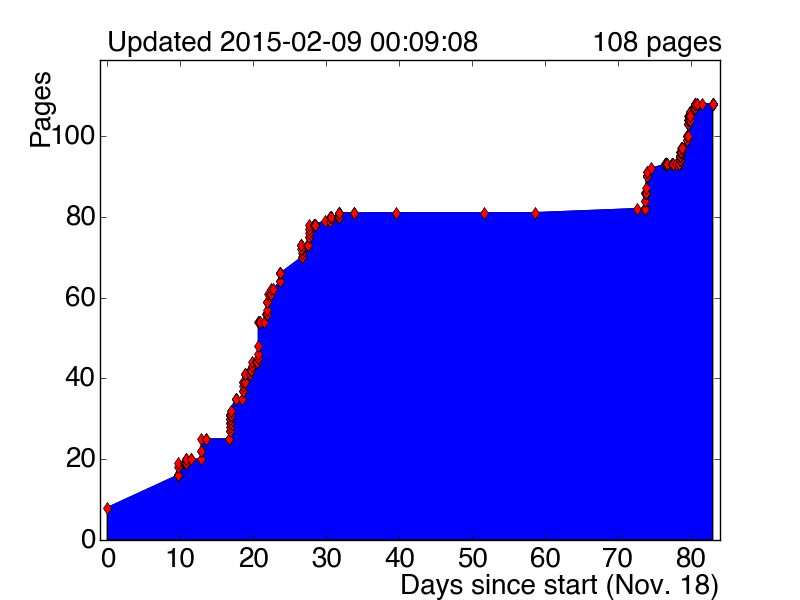
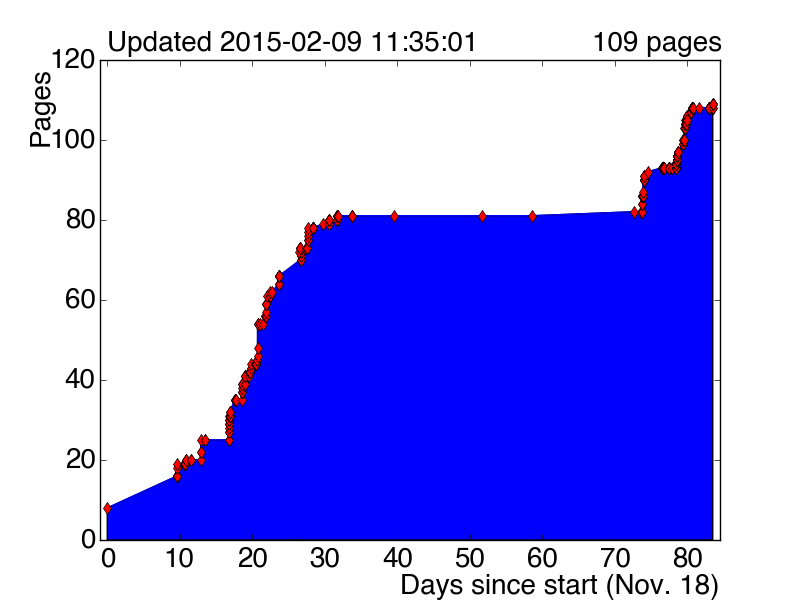
more ltt

diff --git a/tex/prospects.tex b/tex/prospects.tex
@@ -19,7 +19,7 @@ In Run-II, the LHC is expected to collide protons with $\sqrt{s} = 13$ TeV, a pe
 
 The ATLAS L1 trigger rate would increase approximately five-fold if the 2012 trigger menu was ported unchanged to 2015 data-taking conditions~\cite{ATL-COM-DAQ-2014-054}. However, the L1 bandwidth is expected to increase from 75 kHz to 100 kHz, much less than this rate increase. The L1 menu must then be adapted to accommodate this.
 
-This is especially true of triggers which rely on $\tauh$ since hadronic objects are challenging in the trigger, both in identification and calibration. An unsustainable increase of trigger rate as a function of instantaneous luminosity is shown in \cref{fig:prospects-tautriggerrates}. Multiple avenues were explored to ensure tenable trigger rates without significant loss of physics.
+This is especially true of triggers which rely on $\tauh$ since hadronic objects are challenging in the trigger, both in identification and calibration. An unsustainable increase of trigger rate as a function of instantaneous luminosity is shown in \cref{fig:prospects-tautriggerrates}. Multiple avenues are explored to ensure tenable trigger rates without significant loss of physics.
 
 \begin{figure}[tp]
   \centering
@@ -31,7 +31,7 @@ This is especially true of triggers which rely on $\tauh$ since hadronic objects
 
 \subsection{Run-I triggers for $\Htautau$}
 
-In Run-I, only the $\Htautauhh$ analysis relied on $\tauh$ triggers for physics. The $\Htautaulh$ used single lepton triggers with an offline threshold of 26 GeV. $\ell+\tauh$ triggers were considered but ultimately dropped because they brought additional complication to the analysis without significant improvement in sensitivity. The $\Htautaull$ analysis relied on single and di-lepton triggers. The list of triggers used in 2012 data-taking, and their expected 2015 versions, is shown in \cref{tab:prospects-triggersL1} and \cref{tab:prospects-triggersHLT}.
+In Run-I, only the $\Htautauhh$ analysis rely on $\tauh$ triggers for physics. The $\Htautaulh$ use single lepton triggers with an offline threshold of 26 GeV. $\LTT$ triggers are considered but ultimately dropped because they bring additional complication to the analysis without significant improvement in sensitivity. The $\Htautaull$ analysis relies on single and di-lepton triggers. The list of triggers used in 2012 data-taking, and their expected 2015 versions, is shown in \cref{tab:prospects-triggersL1} and \cref{tab:prospects-triggersHLT}.
 
 \begin{table}[bp] 
   \centering
@@ -50,11 +50,11 @@ In Run-I, only the $\Htautauhh$ analysis relied on $\tauh$ triggers for physics.
 \clearpage
 \subsection{Run-II triggers}
 
-Trigger options for Run-II are most critical for the $\Htautauhh$ since it relies entirely on $\tauh$ triggers. The $\Htautaull$ analysis will continue to use single and di-lepton triggers, which enjoy low thresholds and are among the most high profile triggers, and thus less likely to be cut in case of unexpectedly high rates. The $\Htautaulh$ analysis will continue to use the single lepton trigger, but the potential benefit of recovering events with leptons below the single lepton trigger thresholds could be helpful. Accordingly, only the $\Htautauhh$ and $\Htautaulh$ analyses were considered for trigger optimizations, with emphasis on $\Htautauhh$.
+Trigger options for Run-II are most critical for the $\Htautauhh$ since it relies entirely on $\tauh$ triggers. The $\Htautaull$ analysis will continue to use single and di-lepton triggers, which enjoy low thresholds and are among the most high profile triggers, and thus less likely to be cut in case of unexpectedly high rates. The $\Htautaulh$ analysis will continue to use the single lepton trigger, but the potential benefit of recovering events with leptons below the single lepton trigger thresholds could be helpful. Accordingly, only the $\Htautauhh$ and $\Htautaulh$ analyses are considered for trigger optimizations, with emphasis on $\Htautauhh$.
 
 \subsubsection{Object thresholds}
 
-The first option was to raise object thresholds in the trigger. Given the success of the Run-I analysis, which only included event topologies with additional jets, triggering on one or two additional jets in the event was considered. To assess the impact of this, the Run-I analysis was re-run but with progressively higher thresholds on the final state objects, and the resulting sensitivity was derived. This is shown in \cref{fig:prospects-trigger-evolution}.
+The first and simplest option is to raise object thresholds in the trigger. Since the Run-I analysis signal regions only include event topologies with additional jets, triggering on one or two additional jets in the event is considered. To assess the impact of this, the Run-I analysis was re-run but with progressively higher thresholds on the final state objects, and the resulting sensitivity is derived. This is shown in \cref{fig:prospects-trigger-evolution}.
 
 \begin{figure}[!htpb]
   \centering
@@ -64,13 +64,13 @@ The first option was to raise object thresholds in the trigger. Given the succes
   \label{fig:prospects-trigger-evolution}
 \end{figure}
 
-For both $\Htautauhh$ and $\Htautaulh$, triggering on the lead jet in the VBF category was promising, and triggering on the sub-lead jet was not. This configuration would also spare the boosted category from requiring a second jet, which would be inefficient. An offline threshold of $\approx\! 70$ GeV for the lead jet, which corresponds to a L1 threshold of $\approx\! 25$ GeV, did not cost significant sensitivity.
+For both $\Htautauhh$ and $\Htautaulh$, triggering on the lead jet in the VBF category is promising, and triggering on the sub-lead jet is not. The lowest realistic threshold for triggering on the sub-lead jet is $15-20$ GeV at L1 ($\approx\! 50-60$ GeV offline) costs significant sensitivity in both final states. Requiring a second jet would also be inefficient for the boosted category. To trigger on the lead jet, however, an offline threshold of $\approx\! 70$ GeV ($25$ GeV at L1) does not cost significant sensitivity.
 
-For $\Htautauhh$, raising the threshold on the lead $\tauh$ was more promising then raising the threshold on the sub-lead $\tauh$. For $\Htautaulh$, raising the threshold on the $\tauh$ was more promising than raising the threshold on the lepton.
+For $\Htautauhh$, raising the threshold on the lead $\tauh$ is more promising then raising the threshold on the sub-lead $\tauh$. For $\Htautaulh$, raising the threshold on the $\tauh$ is more promising than raising the threshold on the lepton.
 
 \subsubsection{L1topo}
 
-A new feature of the L1 trigger in 2015 is the ability to make topological selections, whereas in Run-I, only object multiplicity selections could be made. This topological selection are implemented via the new \texttt{L1topo} processor.
+A new feature of the L1 trigger in 2015 is the ability to make topological selections, whereas in Run-I, only object multiplicity selections could be made. This topological selection are implemented via the new \texttt{L1topo} processor~\cite{ATL-DAQ-PROC-2013-039,ATL-COM-DAQ-2014-005}.
 
 At L1, the dominant background for $\tauh$ triggers is QCD di-jet production. Topological selections can be used in various ways to suppress this process, especially in the $\Htautau$ analysis signal regions where the $\tau\tau$ system tends to be boosted.
 %
@@ -87,7 +87,7 @@ At L1, the dominant background for $\tauh$ triggers is QCD di-jet production. To
       QCD di-jet systems tend to be non-resonant and low-$\pt$, and the $\tau\tau$ system is from $Z/H$ decays.
 \end{description}
 %
-The discriminating power of these variables is shown in \cref{fig:prospects-trigger-l1topo}.
+The discriminating power of these variables is shown in \cref{fig:prospects-trigger-l1topo} for $\Htautaueh$ MC versus high-pileup minimum bias MC. 
 
 \begin{figure}[!htpb]
   \centering
@@ -100,11 +100,8 @@ The discriminating power of these variables is shown in \cref{fig:prospects-trig
   \label{fig:prospects-trigger-l1topo}
 \end{figure}
 
-Of these options, angular discrimination is appealing because the angular resolution for $\tauh$ at L1 is better than momentum resolution, as shown in \cref{fig:prospects-trigger-2011-angular} and \cref{fig:prospects-trigger-resolution}. Sharper efficiency turn-ons can then be expected at HLT and offline. $\Delta R(\tautau) < 2.8$ was ultimately chosen for discrimination because it combines the discriminating power of $\Delta\phi(\tautau)$ and $\Delta\eta(\tautau)$.
+Of these options, angular discrimination is appealing because the angular resolution for $\tauh$ at L1 is better than momentum resolution, as shown in \cref{fig:prospects-trigger-2011-angular} and \cref{fig:prospects-trigger-resolution}. Sharper efficiency turn-ons can then be expected at HLT and offline. $\Delta R(\tautau) < 2.8$ is ultimately chosen for discrimination because it combines the discriminating power of $\Delta\phi(\tautau)$ and $\Delta\eta(\tautau)$.
 
-The impact of requiring an additional jet and $\Delta R(\tautau) < 2.8$ on the predicted 2015 L1 trigger rate is shown in \cref{tab:prospects-L1rate-evolution}. A ten-fold reduction of the rate is achieved without signicant loss of sensitivity.
-
-\clearpage
 \begin{figure}[!htpb]
   \centering
   \includegraphics[width=0.48\textwidth]{figures/ATL-COM-DAQ-2012-001/c_L1_etares}
@@ -121,19 +118,29 @@ The impact of requiring an additional jet and $\Delta R(\tautau) < 2.8$ on the p
   \label{fig:prospects-trigger-resolution}
 \end{figure}
 
+\clearpage
+
+The impact of requiring an additional jet and $\Delta R(\tautau) < 2.8$ on the predicted 2015 L1 trigger rate is shown in \cref{tab:prospects-L1rate-evolution}. A ten-fold reduction of the rate is achieved without signicant loss of sensitivity.
+
 \begin{table}[!htpb] 
   \centering
   \input{tables/prospects-L1rate-evolution}
   \caption{L1 trigger items and rate predictions for 2015 data-taking. A baseline L1 menu is used for calculating the unique rate.}
   \label{tab:prospects-L1rate-evolution}
 \end{table}
-\clearpage
 
-\subsubsection{Sensitivity gain in $\Htautaulh$ with $\ell+\tau_h$ triggers}
+\subsubsection{Sensitivity gain in $\Htautaulh$ with $\LTT$ triggers}
 
-To assess the potential gain in sensitivity of $\ell+\tau_h$ triggers in 2015, the $\Htautaulh$ analysis was re-run in the regime below the single lepton trigger threshold. Kinematic distributions are shown in \cref{fig:prospects-ltt-taus} and \cref{fig:prospects-ltt-jets}, including the final BDT discriminant.
+To assess the potential gain in sensitivity of $\LTT$ triggers in 2015, the $\Htautaulh$ analysis is re-run in the regime below the single lepton trigger threshold with the $\LTT$ triggers running in 2012, shown in \cref{tab:prospects-LTT-2012}. Kinematic distributions are shown in \cref{fig:prospects-ltt-taus} and \cref{fig:prospects-ltt-jets}, including the final BDT discriminant.
 
-A simple, analytic formula for the discovery significance ($Z_A$~\cite{2012.cowan.significance}) gives $0.7\sigma$ for the $\ell\!+\!\tauh$ triggered category. This is not a significant improvment over the single lepton triggered regime.
+\begin{table}[!htpb] 
+  \centering
+  \input{tables/prospects-LTT-2012}
+  \caption{L1 and HLT $\LTT$ trigger items operating in 2012.}
+  \label{tab:prospects-LTT-2012}
+\end{table}
+
+A simple, analytic formula for the discovery significance ($Z_A$~\cite{2012.cowan.significance}) gives $0.7\sigma$ for the $\LTT$ triggered category. This is not a significant improvment over the single lepton triggered regime.
 
 \clearpage
 \begin{figure}[tp]

diff --git a/tex/apx-control-regions.tex b/tex/apx-control-regions.tex
@@ -5,7 +5,7 @@
 Comparisons of data with prediction for fakes control regions in the $\Htautau$ analysis are shown.
 \end{quote}
 
-\section{$\Wlvj$ CR}
+\section{$\Wlv$ CR}
 
 \begin{figure}[!htpb]
   \centering
@@ -52,7 +52,7 @@ Comparisons of data with prediction for fakes control regions in the $\Htautau$ 
 
 \clearpage
 
-\section{$\QCDj$ CR}
+\section{QCD CR}
 
 \begin{figure}[!htpb]
   \centering
@@ -99,7 +99,7 @@ Comparisons of data with prediction for fakes control regions in the $\Htautau$ 
 
 \clearpage
 
-\section{$\Zllj$ CR}
+\section{$\Zll$ CR}
 
 \begin{figure}[!htpb]
   \centering
@@ -146,7 +146,7 @@ Comparisons of data with prediction for fakes control regions in the $\Htautau$ 
 
 \clearpage
 
-\section{$\topj$ CR}
+\section{top CR}
 
 \begin{figure}[!htpb]
   \centering

diff --git a/tables/prospects-LTT-2012.tex b/tables/prospects-LTT-2012.tex
@@ -1,0 +1,7 @@
+\begin{tabular}{c|c|c}
+  channel      & L1                       & HLT \\
+  \hline\hline
+  $\Htautaueh$ & \texttt{2TAU11I\_EM14VH} & \texttt{tau20Ti\_medium1\_e18vh\_medium1} \\
+  $\Htautaumh$ & \texttt{TAU8\_MU10}      & \texttt{tau20\_medium1\_mu15}             \\
+  \hline\hline
+\end{tabular}

diff --git a/pages.md b/pages.md
@@ -359,3 +359,9 @@
 + [2015-02-09-00h06m20s] 108
 + [2015-02-09-00h07m57s] 108
 + [2015-02-09-00h09m08s] 108
++ [2015-02-09-10h58m21s] 108
++ [2015-02-09-11h08m35s] 108
++ [2015-02-09-11h09m36s] 109
++ [2015-02-09-11h19m30s] 109
++ [2015-02-09-11h28m14s] 109
++ [2015-02-09-11h35m01s] 109
